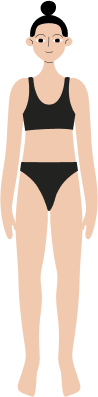
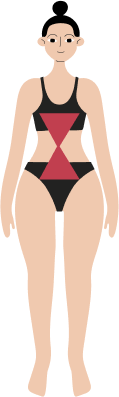
assets added for profile completion

diff --git a/lib/view/login/body_shape_selection_screen.dart b/lib/view/login/body_shape_selection_screen.dart
@@ -19,24 +19,24 @@ class _BodyShapeSelectionScreenState extends State<BodyShapeSelectionScreen> {
 
   final List<Map<String, String>> bodyShapes = [
     {
-      'image': 'assets/hourglass.png',
+      'image': 'assets/img/hourglass.png',
       'label': 'Hour Glass Shape',
     },
     {
-      'image': 'assets/triangle.png',
+      'image': 'assets/img/triangle.png',
       'label': 'Triangle Body Shape',
     },
     {
-      'image': 'assets/rectangle.png',
+      'image': 'assets/img/rectangle.png',
       'label': 'Rectangle Body Shape',
     },
     {
-      'image': 'assets/athletic.png',
-      'label': 'Rectangle Body Shape',
+      'image': 'assets/img/athletic.png',
+      'label': 'Athletic Body Shape',
     },
     {
-      'image': 'assets/round.png',
-      'label': 'Rectangle Body Shape',
+      'image': 'assets/img/round.png',
+      'label': 'Round Body Shape',
     },
   ];
 

diff --git a/lib/common_widget/round_textfield.dart b/lib/common_widget/round_textfield.dart
@@ -47,7 +47,7 @@ class RoundTextField extends StatelessWidget {
                 width: 20,
                 height: 20,
                 child: Image.asset(
-                  icon!,
+                  icon ?? "assets/img/email.png",
                   width: 20,
                   height: 20,
                   fit: BoxFit.contain,
